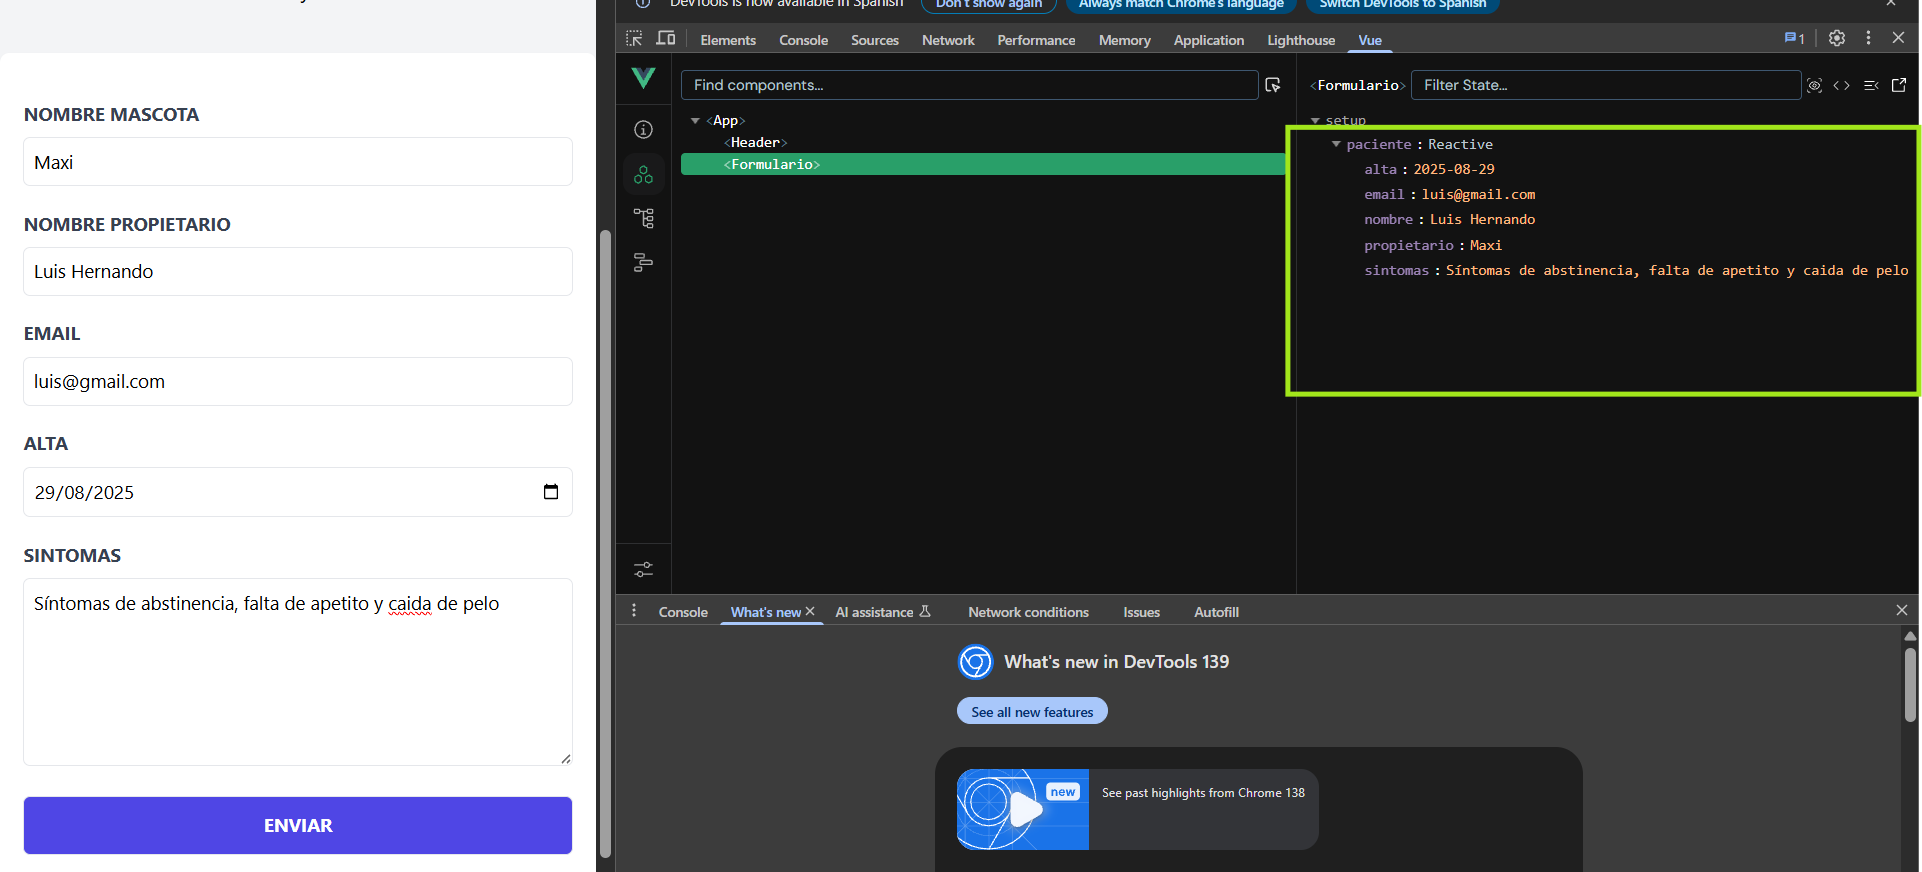
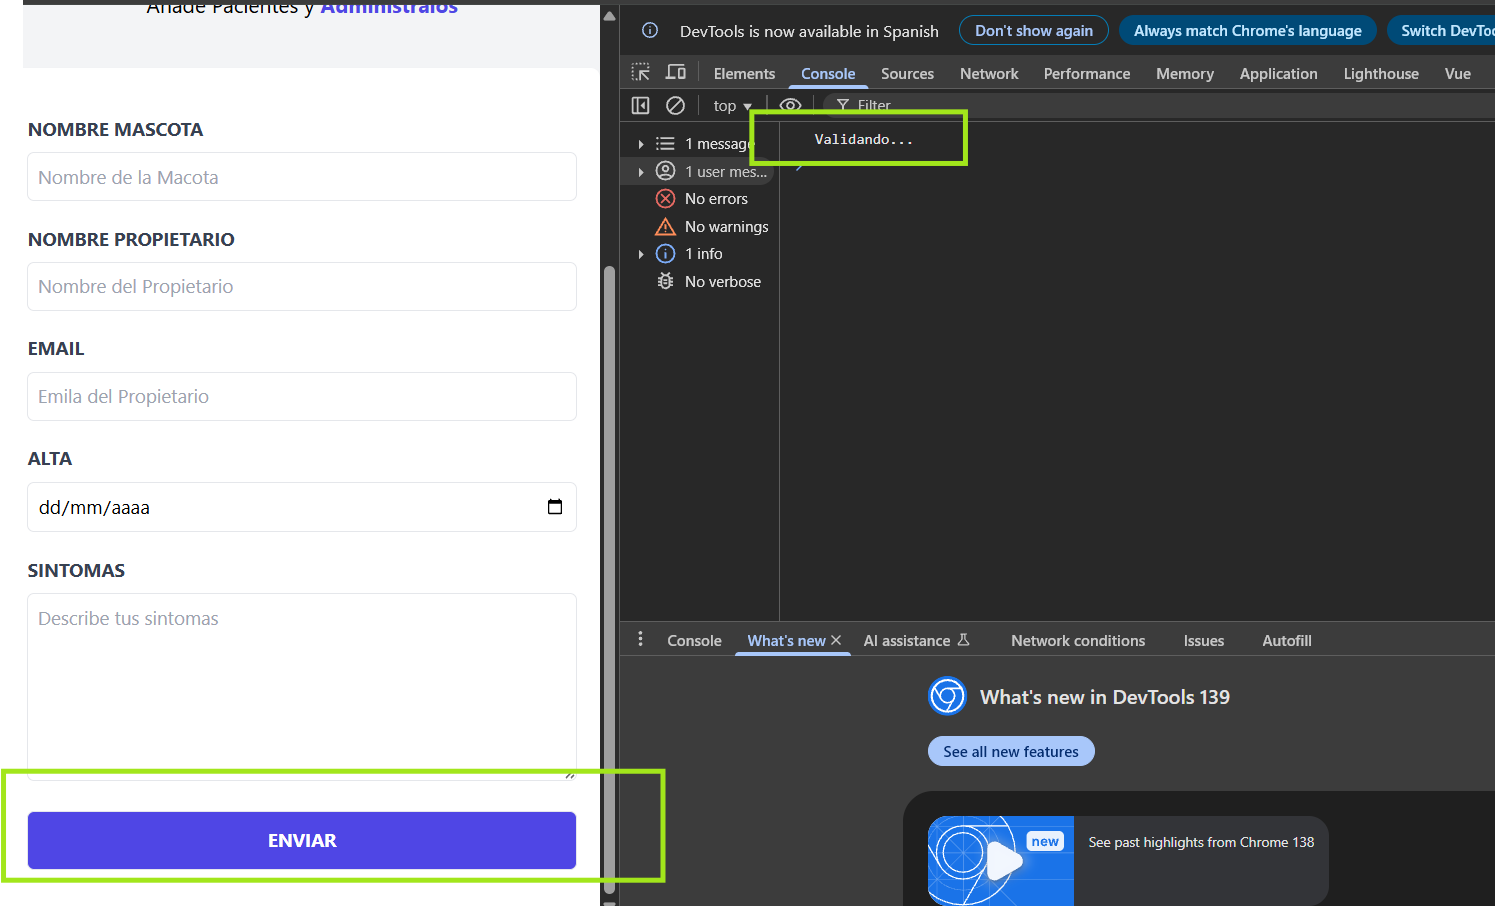
Submit de formularios y Events Modifiers

diff --git a/src/components/Formulario.vue b/src/components/Formulario.vue
@@ -8,6 +8,11 @@
         alta: '',
         sintomas: ''
     });
+
+    const validar = () => {
+        console.log('Validando...');
+    };
+
 </script>
 
 <template>
@@ -17,7 +22,7 @@
             Añade Pacientes y 
             <span class="text-indigo-600 font-bold">Administralos</span>
         </p>
-        <form class="bg-white shadow-md rounded-lg py-10 px-5 mb-10">
+        <form class="bg-white shadow-md rounded-lg py-10 px-5 mb-10" @submit.prevent="validar">
             <div class="mb-5">
                 <label 
                     for="mascota" 

diff --git a/README.md b/README.md
@@ -11,11 +11,21 @@ Learn more about IDE Support for Vue in the [Vue Docs Scaling up Guide](https://
 📧 Contacto: luisamortegui.3691@gmail.com
 
 
-🚀 Añadiendo todos los campos al state de Vue.js
+🚀 Submit de formularios y Events Modifiers
 
 Se añaden las propiedades faltantes al objeto, se habilita la herramienta de Google Vue.js devtools para poder depurar la información que se almacena en nuestro objeto gracias a la librería de reactive de Vue.js
 
-✅ Vista
+Lo que normalmente se veria con JavaScript
+
+const formulario = document.querySelector('#id');
+formulario = addEventListener('submit', function(e){
+    // logica
+    e.preventDefault():
+});
+
+Con Vue.js, solo de ingresamos la directiva de eventos @submit-prevent="[nombre_variable]" algo mas sencillo y util 
+
+✅ Se evidencia el mensaje en consola una vez se da clic en el boton.
 
 ![Vista](docs/images/imagen.png)
 
